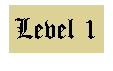
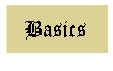
merged all new questions together. all challenges now have questions

diff --git a/level_menu.py b/level_menu.py
@@ -170,9 +170,9 @@ class NoticeBoard(object):
 
 # Add notice boards
 notice_boards = [
-    NoticeBoard(385, 382, "lvl1", notice_board_sprite, single_notice_sprite1),
-    NoticeBoard(900, 382, "lvl2", notice_board_sprite, single_notice_sprite2),
-    NoticeBoard(1375, 311, "lvl3", notice_board_sprite, single_notice_sprite3),
+    NoticeBoard(385, 382, "basics", notice_board_sprite, single_notice_sprite1),
+    NoticeBoard(900, 382, "logical-operators", notice_board_sprite, single_notice_sprite2),
+    NoticeBoard(1375, 311, "encryption", notice_board_sprite, single_notice_sprite3),
     NoticeBoard(480, 864, "decorators", notice_board_sprite, single_notice_sprite4),
     NoticeBoard(925, 760, "recursive-functions", notice_board_sprite, single_notice_sprite5)
 ]
@@ -259,15 +259,15 @@ def redrawGameWindow():
     # Display a message if the character is facing a notice board
     board = char_facing_board()
     if board is not None:
-        if board.level == "lvl1":
-            highscores = get_highscores("highscore_lvl1.db")
+        if board.level == "basics":
+            highscores = get_highscores("highscore_basics.db")
             text_box(f'Press SPACE to start Level 1!\nComplete the first challenge.{highscores}', board.x + 125, board.y)
-        elif board.level == "lvl2":
-            highscores = get_highscores("highscore_lvl2.db")
-            text_box(f'Press SPACE to start Level 2!\nGet ready for the second challenge.{highscores}', board.x + 125, board.y)
-        elif board.level == "lvl3":
-            highscores = get_highscores("highscore_lvl3.db")
-            text_box(f'Press SPACE to start Level 3!\nThe third challenge awaits you.{highscores}', board.x - 340, board.y)
+        elif board.level == "logical-operators":
+            highscores = get_highscores("highscore_logical-operators.db")
+            text_box(f'Press SPACE to start Level 2!\nGet ready for logical operators.{highscores}', board.x + 125, board.y)
+        elif board.level == "encryption":
+            highscores = get_highscores("highscore_encryption.db")
+            text_box(f'Press SPACE to start Level 3!\nEncryption awaits you.{highscores}', board.x - 340, board.y)
         elif board.level == "decorators":
             highscores = get_highscores("highscore_decorators.db")
             text_box(f'Press SPACE to learn about Decorators!\nUnderstand the concept of decorators in Python.{highscores}', board.x + 125, board.y)
@@ -312,8 +312,8 @@ while run:
     new_y = character.y
     # Check if the left key is pressed and the player is not at the left edge of the screen
     if keys[pygame.K_LEFT] and character.x > character.vel:
-        new_x -= character.vel  # Update the new x position
-        character.left = True   
+        new_x -= character.vel                              # Subtract the character's velocity from its current x position to move it to the left
+        character.left = True                               # Set the character's 'left' attribute to True to indicate it's moving left
         character.right = False
         character.standing = False
     # Check if the right key is pressed and the player is not at the right edge of the screen
@@ -322,6 +322,7 @@ while run:
         character.right = True
         character.left = False
         character.standing = False
+    # Check if the right key is pressed and the player is not at the right edge of the screen
     else:
         character.left = False
         character.right = False
@@ -354,15 +355,15 @@ while run:
 
         if not space_pressed:               # Run this code only if space key is not alread pressed = only once per press
             board = char_facing_board()     # Get the board that the character is facing
-            if board is not None:
+            if board is not None:           # If character is facing a board
                 # Run a new Python script
                 subprocess.Popen(["python3", "quizz_app.py" , username, board.level])    # Open the quiz script with the selected level in a new window
                 time.sleep(0.3)
                 pygame.quit()       # Close current window
                 run = False         # Stop the game loop
 
-            facing_exit = char_facing_exit()
-            if facing_exit != None:
+            facing_exit = char_facing_exit()    # get whether the character is facing one of the game exits
+            if facing_exit != None: # If yes
                 pygame.quit()       # Close current window
                 run = False         # Stop the game loop
 
@@ -377,5 +378,6 @@ while run:
 
     if not(character.standing):     # Define when character is walking
         character.walkCount += 1    # Increment the walk count
-            
-    redrawGameWindow()      # Redraw the game window = update the screen at every frame
+
+    if run:        
+        redrawGameWindow()      # Redraw the game window = update the screen at every frame
